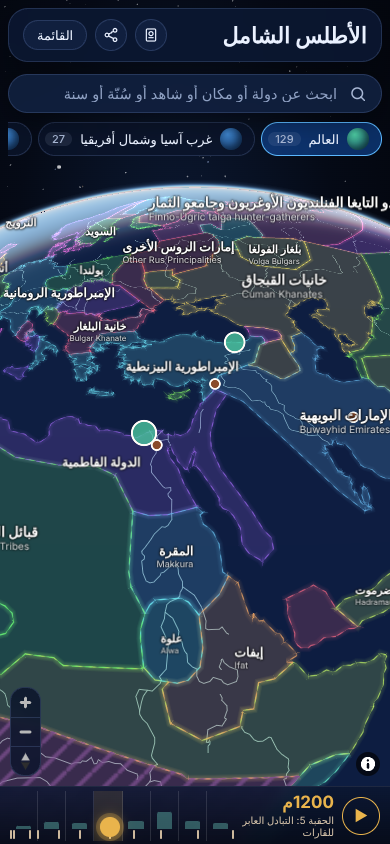
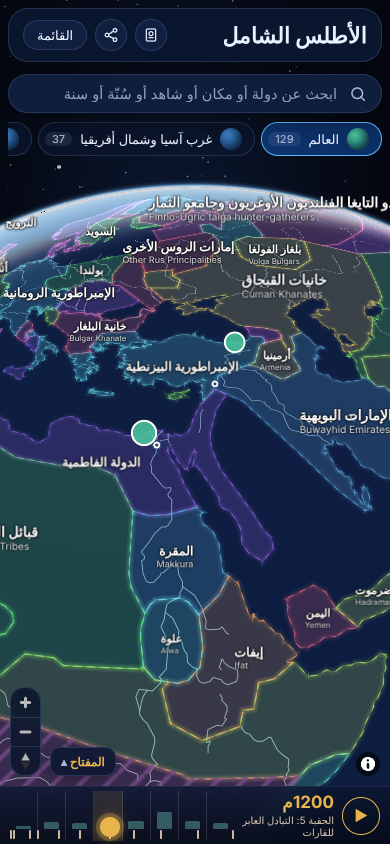
المفتاح يتحدّث بعد المهمة الجارية لا في إطار الرسم التالي، وتحديث اللقطات المرجعية
- المفتاح الحيّ لا يتأخر ببطء الرسم، فيذكر أدوار الشواهد فور اختيار السُّنّة.
- اختبار الدخان ينتظر المفتاح بدل مهلة ثابتة.
- لقطات مرجعية جديدة: المفتاح ورموز المواقع وأعداد القارات بعد المرحلة العاشرة.

Claude-Session: https://claude.ai/code/session_01EKgcrpAVTTmkELDxDHoHAK

diff --git a/web/app.js b/web/app.js
@@ -1335,7 +1335,8 @@ legendToggle.addEventListener("click", () => {
 function scheduleLegend() {
   if (scheduleLegend.queued) return;
   scheduleLegend.queued = true;
-  requestAnimationFrame(() => { scheduleLegend.queued = false; renderLegend(); });
+  // بعد المهمة الجارية لا في الإطار التالي: يُجمع ما تغيّر معاً ولا يتأخر المفتاح ببطء الرسم
+  queueMicrotask(() => { scheduleLegend.queued = false; renderLegend(); });
 }
 function renderLegend() {
   const row = (sw, text, sub = "") => `<div class="lg-row"><i class="lg-sw lg-${sw}"></i><span>${text}${sub ? ` <span class="sub">${sub}</span>` : ""}</span></div>`;
